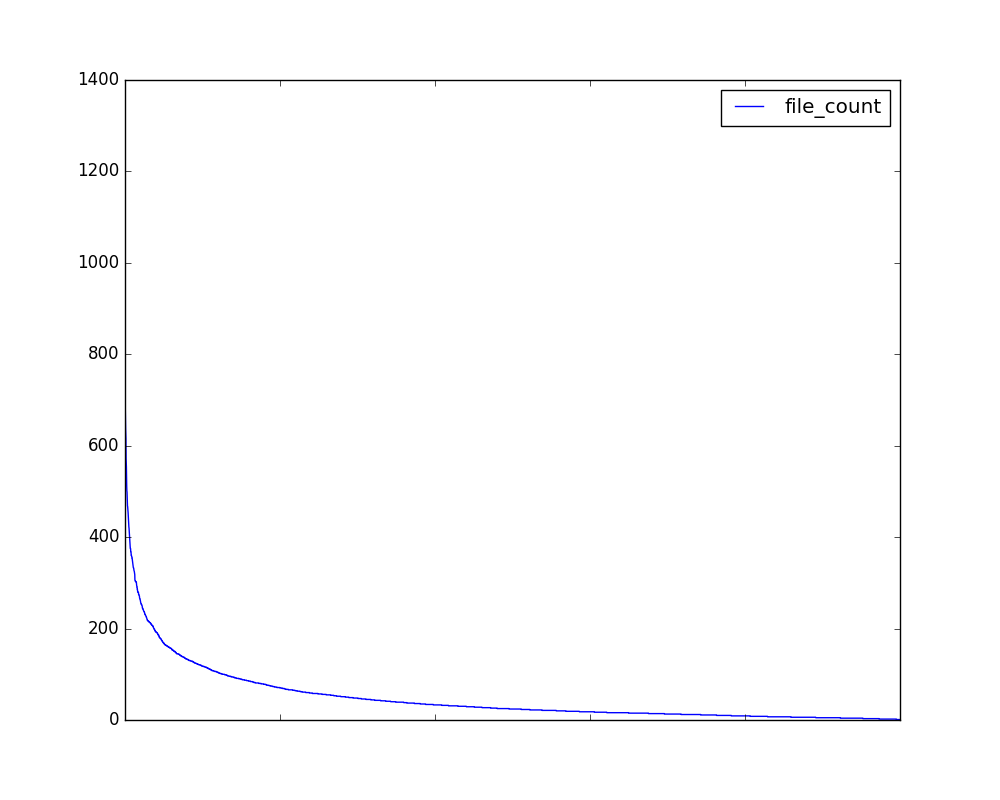
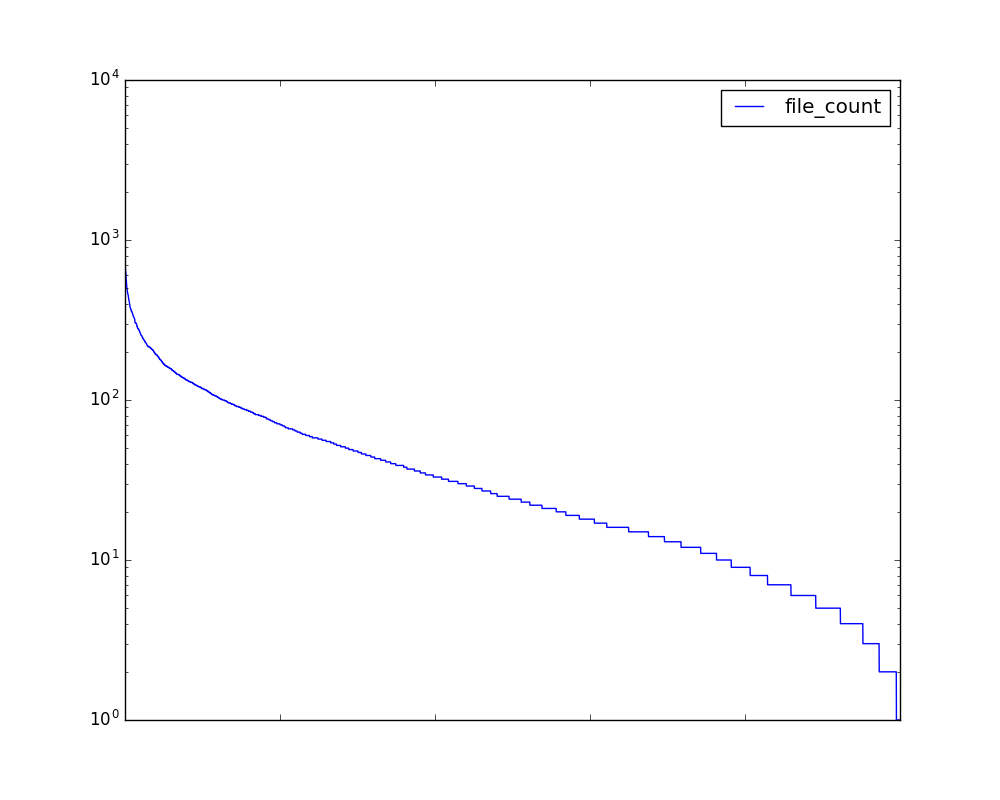
dataset statistical information in log scale

diff --git a/analysis/statistical_info.py b/analysis/statistical_info.py
@@ -88,7 +88,7 @@ if __name__ == "__main__" :
                                            columns=['file_count'])
     dataframe = dataframe.sort_values(by=['file_count'], ascending=False)
     fig, ax = plt.subplots(figsize=(10, 8))
-    dataframe.plot(ax=ax, color=['b'])
+    dataframe.plot(ax=ax, color=['b'], logy=True)
     fig.savefig('./imgs/train.png')
 
 
@@ -101,7 +101,7 @@ if __name__ == "__main__" :
                                            columns=['file_count'])
     dataframe = dataframe.sort_values(by=['file_count'], ascending=False)
     fig, ax = plt.subplots(figsize=(10, 8))
-    dataframe.plot(ax=ax, color=['g'])
+    dataframe.plot(ax=ax, color=['g'], logy=True)
     fig.savefig('./imgs/val.png')
 
 
